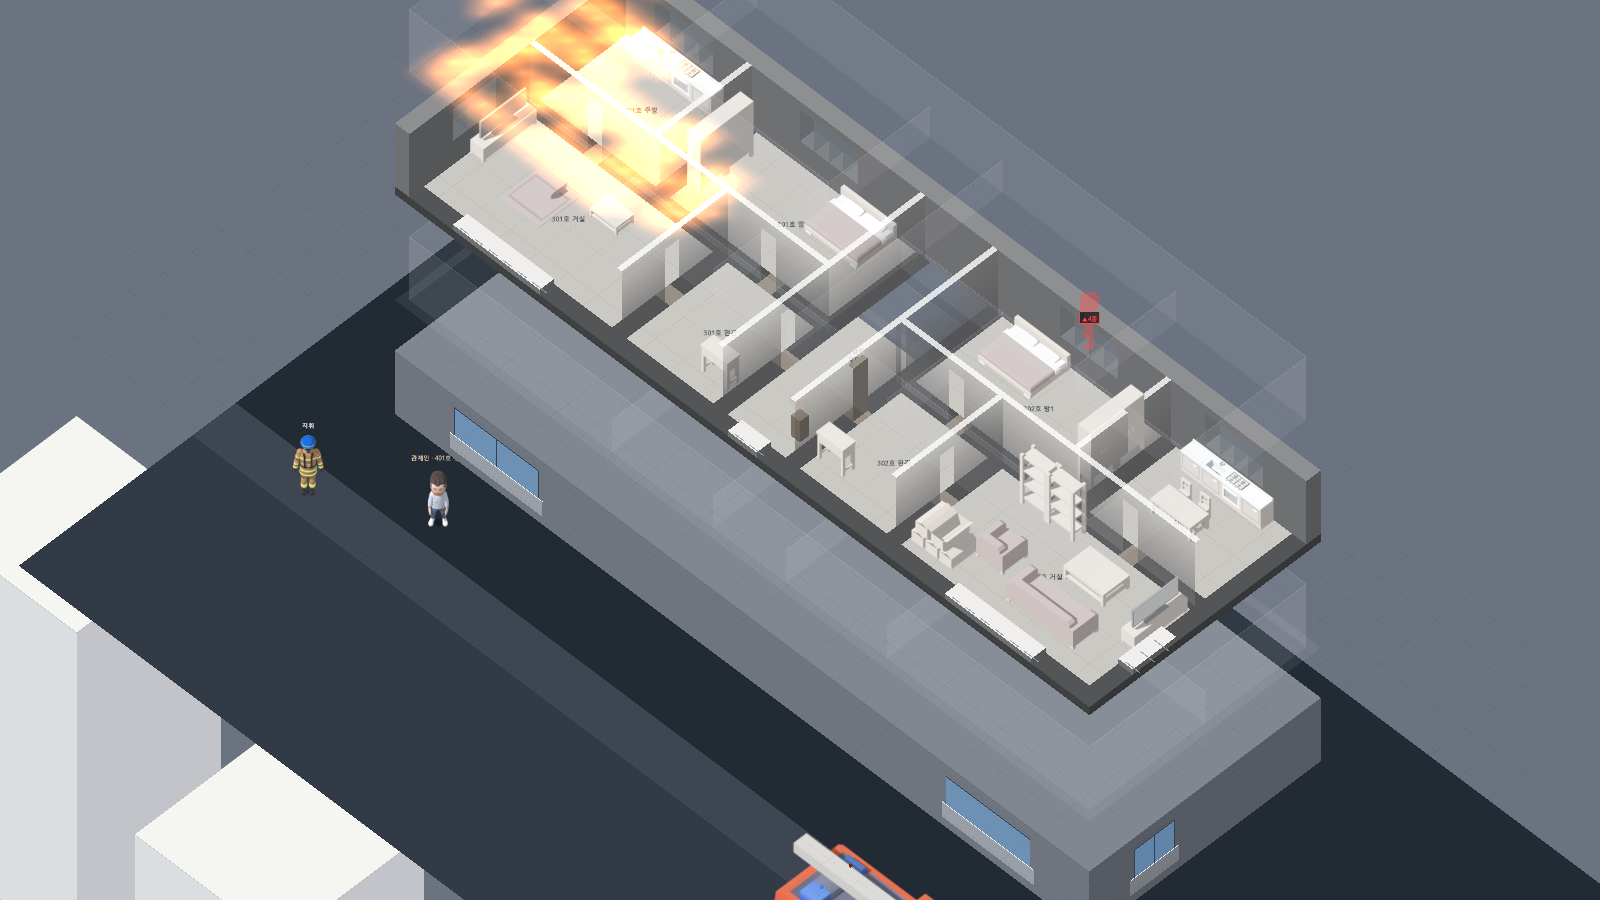
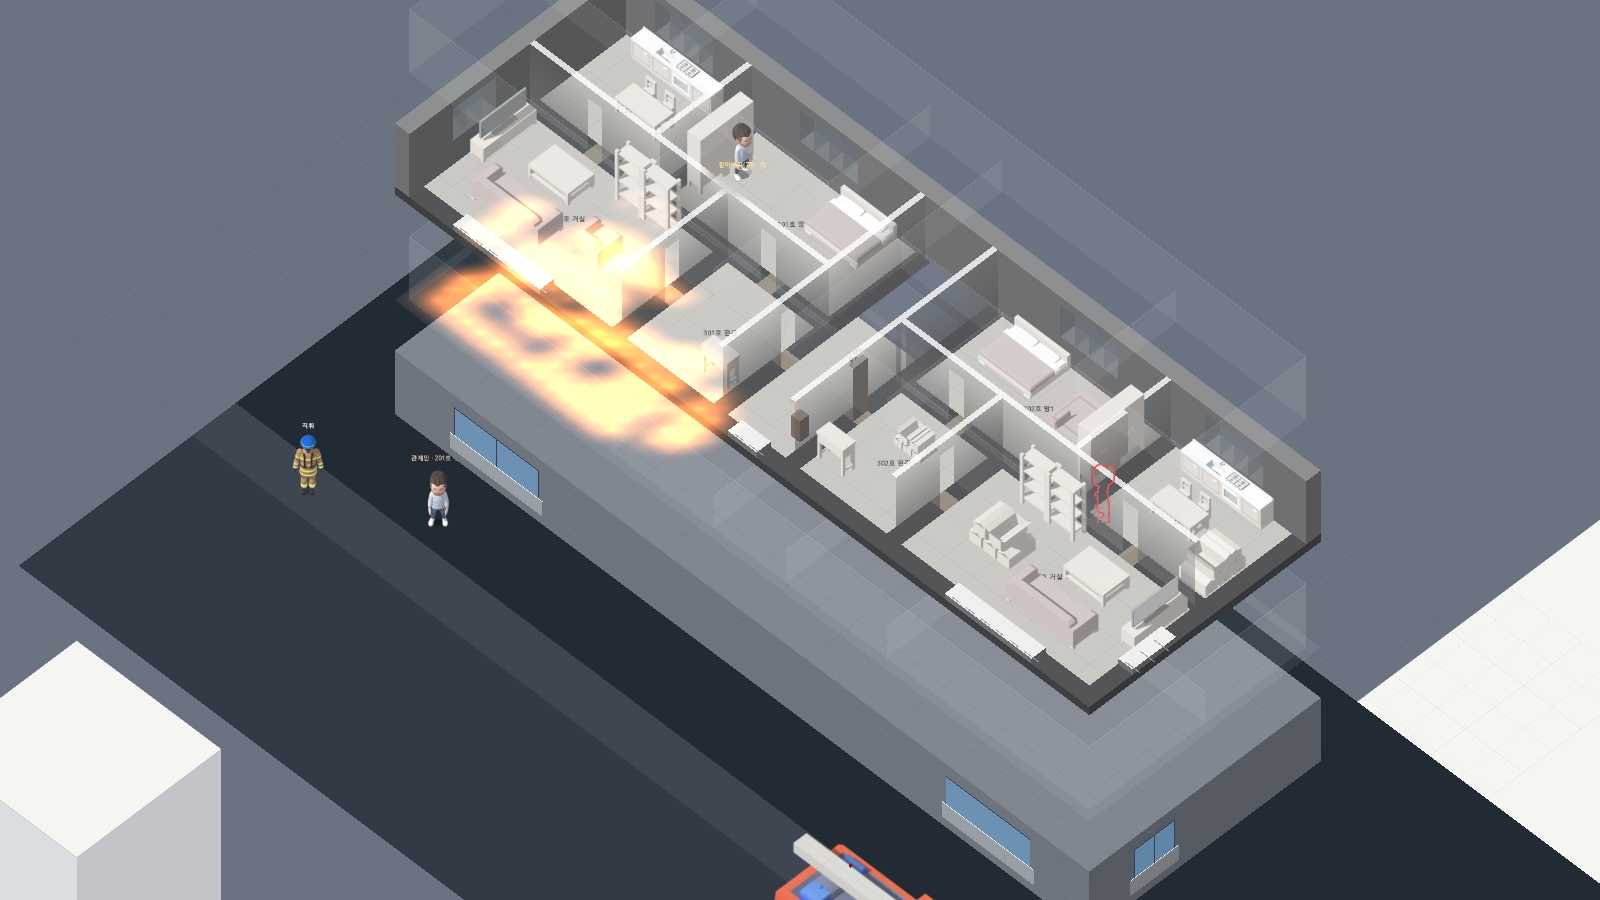
F01: 다른 층 사람은 얇은 테두리만 (안쪽 투명, 층 표 없음)

diff --git a/docs/decisions.md b/docs/decisions.md
@@ -117,3 +117,4 @@
 | 2026-11-12 | F01 | 다른 층 실루엣 (튜토리얼 2층 주택부터) | 층 쌓기 기본을 비켜 놓기(stagger)에서 제자리 쌓기(stack)로. 다른 층은 바닥 8%·벽 윗선 20% 실루엣(위층은 벽만), 연기는 그리지 않음, 대원·발견한 요구조자는 원래 색 25% + 노랑·빨강 테두리, 불은 불꽃 없이 빛 번짐만(지금 보이는 타는 칸, 지금 층 바닥 위로 비침). 발견 못 한 요구조자는 원래대로 안 보임. 비켜 놓기는 stack_mode 값으로 다시 고를 수 있게 남김 | 사용자 결정 — XCOM·심즈처럼 다른 층은 흐리게, 핵심(사람·불)만 표식. 모든 건물에 같은 규칙(추천). 층 막대 연기 표시는 보류 |
 | 2026-11-12 | F01 | 바깥 땅 사람·얇은 테두리 | 다른 층으로 보이는 1층의 바깥 땅(마당·도로)에 있는 대원·지휘관·관계인·발견한 요구조자는 차량처럼 원래대로 그림(위층 건물에 화면에서 가려지는 자리만 테두리 추가). 사람 테두리 두께 3px → 1.5px(ghost_outline_px), 강조 2배 → 1.5배 | 사용자 결정 — 바깥은 어느 층을 보든 그대로 보여야 하고, 굵은 테두리는 어색함 |
 | 2026-11-12 | F01 | 다른 층 사람 표시 | 다른 층 대원·발견한 요구조자는 테두리 없이 노랑·빨강 한 색 흐린 덩어리(45%) + 머리 위 ▲▼층 표(조마다 하나, 요구조자마다 하나). 같은 층에서 연기·건물에 가려진 사람은 원래 색 25% + 얇은 실선 테두리 그대로 | 사용자 결정 — 둘이 같은 그림이라 헷갈림. 점선(제안)·점선+층 표(추천) 대신 흐린 덩어리+층 표를 고름 (XCOM 다른 높이 표시) |
+| 2026-11-12 | F01 | 다른 층 사람 표시 (고침) | 다른 층 대원·발견한 요구조자는 얇은 테두리(노랑·빨강)만, 안쪽은 완전 투명, 층 표 없음 (ghost_other_fill 0). 같은 층에서 연기에 가려진 사람은 원래 색 25% + 테두리 — 안쪽이 비었는지로 구분 | 사용자 결정 — 한 색 덩어리·층 표는 오히려 복잡함 |

diff --git a/docs/progress.md b/docs/progress.md
@@ -42,3 +42,4 @@
 | 2026-11-12 | F01 다른 층 실루엣 | data/ui/view_params(stack_mode stack·adjacent_alpha 0.08·ghost_line_alpha·ghost_body_alpha), scripts/ui/building/view_params·floor_layer(_draw_ghost_glow, 벽 윗선), shaders/ghost_outline(안쪽 원래 색 25%), tests/test_cutaway | 화면 테스트는 전체 테스트와 동시에 돌리면 부하로 흔들림(따로 돌릴 것). 다음: 튜토리얼 단계 문구·안내 |
 | 2026-11-12 | F01 바깥 땅 사람·얇은 테두리 | scripts/ui/building/floor_layer(_draw_outdoor_people·_outdoor_at·_hidden_by_upper)·view_params, shaders/ghost_outline, data/ui/view_params(ghost_outline_px), tests/test_cutaway | 다음: 튜토리얼 단계 정비 |
 | 2026-11-12 | F01 다른 층 사람 흐린 덩어리·층 표 | shaders/ghost_outline(flat_fill), scripts/ui/building/floor_layer(재질 둘로 나눔·_ghost_badges·_draw_ghost_badges·_badge)·view_params, data/ui/view_params(ghost_flat_alpha), tests/test_cutaway | 기본 확대에서 층 표 글씨가 작음(다른 이름표와 같은 12px) — 필요하면 키움. 다음: 튜토리얼 단계 정비 |
+| 2026-11-12 | F01 다른 층 사람 테두리만 | shaders/ghost_outline(덩어리 모드 지움), scripts/ui/building/floor_layer(층 표 지움)·view_params, data/ui/view_params(ghost_other_fill, ghost_flat_alpha 지움), tests/test_cutaway | 다음: 튜토리얼 단계 정비 |
